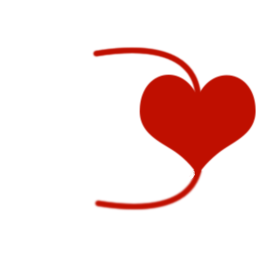
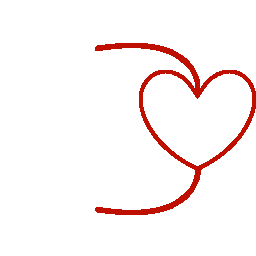
added heart fill calculated by rate, plus code cleaning

Changed region(s): [[0.3438, 0.1562, 1.0, 0.8438]]

diff --git a/ship/ship.py b/ship/ship.py
@@ -5,10 +5,7 @@ import datetime
 import requests
 from discord.ext import commands
 from discord.ext.commands import errors, converter
-from random import choice as rnd
 from PIL import Image, ImageFont, ImageDraw
-if discord.__version__ < "1.0.0":
-    from .utils.dataIO import fileIO
 
 class Ship:
     def __init__(self, bot):
@@ -31,13 +28,11 @@ class Ship:
         random.seed(seed)                                                   #Apply the seed to the generator
         rate =  random.randint(1, 99)                                       #Generate the Ship %
 
-        mess = "Love rate between " + author.mention + " and " + user.mention + " is " + str(rate) + "%"
-
         user_avatar = get_avatar(user)                                      #Get user avatar from discord
         author_avatar = get_avatar(author)                                  #Get author avatar from discord
 
         if ((user_avatar and author_avatar != None)):                       #Test if got the avatars proprely
-            self.make_image(author_avatar, user_avatar, author.name, user.name, str(rate) + "%") #Make the ship image from the avatars
+            self.make_image(author_avatar, user_avatar, author.name, user.name, rate) #Make the ship image from the avatars
             await self.img_ship(ctx, author.mention, user.mention, rate)    #Call image based ship command
         else:
             await self.text_ship(user.mention, author.mention, rate)        #Call text based ship command
@@ -62,20 +57,29 @@ class Ship:
             except errors.BadArgument:
                 await self.bot.say("Oops, something went wrong! try again later!")
     def make_image(self, author_avatar, user_avatar, author, user, rate):
+        #Define colors
+        red = (191, 15, 0, 255)                                             #Tuple that matche the red color
+        white = (255, 255, 255, 255)                                        #Tuple that matche the white color
+        blank = (255, 255, 255, 0)                                          #Tuple that matche the blank color
+
         #Open template
-        tmpl = Image.open("data/ship/Template.png", "r").convert('RGBA')    #Open template image
-        text = Image.new('RGBA', tmpl.size, (255, 255, 255, 0))             #Blank image to write the text
-        fnt = ImageFont.truetype("data/ship/font.ttf", 15)                  #Load font
-        draw = ImageDraw.Draw(text)                                         #Create drawing context
+        tmpl = Image.open("data/ship/Template.png", "r").convert('RGBA')    #Open template Image
+        fill = Image.open("data/ship/Tmpl_fill.png", "r").convert('RGBA')   #Open fill template
+        blank = Image.new('RGBA', tmpl.size, blank)                         #Blank image to write the text and paste fill
+        fnt = ImageFont.truetype("data/ship/font.ttf", 17)                  #Load font
+        draw = ImageDraw.Draw(blank)                                         #Create drawing context
 
         tmpl.paste(author_avatar, (0, -5))                                  #Paste Author avatar on the template
         tmpl.paste(user_avatar, (0, 133))                                   #Paste User avatar on the template
-        draw.text((140, 18), str(author), font=fnt, fill=(191, 15, 0, 255)) #Write author Name
-        draw.text((140, 220), str(user), font=fnt, fill=(191, 15, 0, 255))  #Write user Name
+        offset = 100 - rate                                                 #calculate offset from rate
+        fill = fill.crop((0, offset, 116, 100))                             #Crop fill image to the good size
+        blank.paste(fill, (139, 70 + offset))                               #Paste fill image into the blank
+        draw.text((140, 15), str(author), font=fnt, fill=red)               #Write author Name
+        draw.text((140, 225), str(user), font=fnt, fill=red)                #Write user Name
         fnt = ImageFont.truetype("data/ship/font.ttf", 40)                  #Resize font
-        draw.text((165, 96), str(rate), font=fnt, fill=(255, 255, 255, 255))#Write rate %
+        draw.text((165, 96), str(rate) + "%", font=fnt, fill=white)         #Write rate %
 
-        tmpl = Image.alpha_composite(tmpl, text)                            #Merge template with text
+        tmpl = Image.alpha_composite(tmpl, blank)                           #Merge template with blank
         tmpl.save("data/ship/tmp_ship.png", "PNG")                          #Save template to tmp file
 
 
